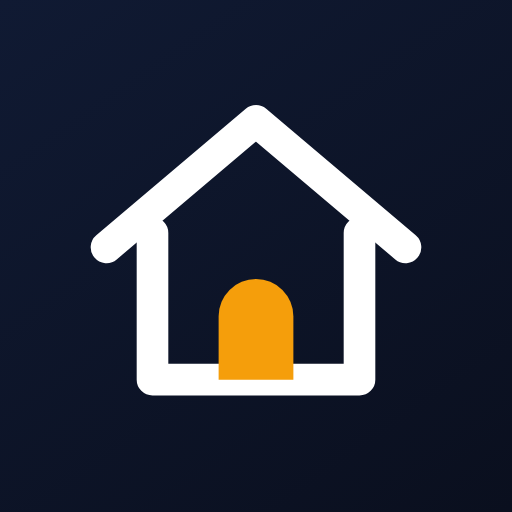
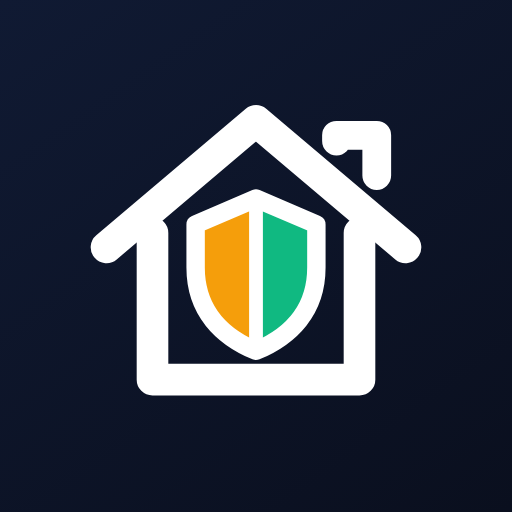
Adopt the shield-in-house mark from owner artwork, redrawn as vector
The owner supplied new logo art: a house with a central shield on a
circuit-board background. This is the first supplied asset with every
word spelled correctly.

Adopted the composition, protection inside the home, and redrew it as
vector in the site system: navy structure via currentColor so it adapts
to light and dark surfaces, shield split amber and emerald, echoing the
orange/green of the artwork mapped onto the palette the site already
uses (emerald is the established keep-the-home colour). The circuit
background was dropped: it reads fintech rather than homeowner trust,
and no mark survives a white header with a background attached.

Verified legible at 96/48/24/16px on light and dark before adoption.
Regenerated everything downstream of the mark: favicon.ico (16/32/48),
favicon-32, apple-icon, icon-512, logo-square for schema.org, and the
1200x630 Open Graph share image.

Header, footer and professionals page pick the mark up automatically via
the Logo component.

Claude-Session: https://claude.ai/code/session_019ZMf6VBXmNJHmDjug6scFG

Changed region(s): [[0.3438, 0.375, 0.6562, 0.75], [0.625, 0.2188, 0.7812, 0.375]]

diff --git a/app/components/Logo.tsx b/app/components/Logo.tsx
@@ -1,20 +1,17 @@
 /**
- * Logo mark. Vector, and deliberately WITHOUT the company name inside it.
+ * Logo mark: a shield inside the house.
  *
- * The previous mark was a PNG with "NJ FORECOLSURE GUIDE" set into the image,
- * misspelled, on every page of the site. Baking a wordmark into a raster file
- * means a typo is invisible to spellcheck, unreadable to Google, unselectable
- * by a visitor, and blurry on any retina screen.
+ * Adapted from owner-supplied artwork (house with a central shield on a
+ * circuit-board background). Kept: the composition, protection inside the
+ * home, which is the whole promise of the site. Changed: redrawn as vector so
+ * it is sharp at every size and cannot ship with baked-in text, and recolored
+ * from orange/green/teal into the site system, amber for the warmth, emerald
+ * for "keep the home", navy for the structure. The circuit background was
+ * dropped; it reads fintech, not homeowner trust, and no mark survives a
+ * white header with a background attached.
  *
- * So the mark is now just the house, and the name is real HTML text beside it.
- * Sharp at any size, searchable, screen-reader friendly, and impossible to
- * misspell without someone noticing.
- *
- * On the design: an earlier version ran an amber stroke diagonally across the
- * house. At small sizes it read as a line struck THROUGH the home, which is
- * the last association this particular audience needs. It is now an open,
- * arched door instead: the one warm element in the mark, and the right idea
- * for a site whose whole argument is that there is a way through.
+ * House strokes use currentColor so the same component works dark-on-light in
+ * the header and light-on-dark in the footer.
  */
 export default function Logo({ className = 'h-11 w-11' }: { className?: string }) {
   return (
@@ -26,24 +23,33 @@ export default function Logo({ className = 'h-11 w-11' }: { className?: string }
       aria-label="NJ Foreclosure Guide"
       xmlns="http://www.w3.org/2000/svg"
     >
-      {/* Roof */}
+      {/* Roof with chimney */}
       <path
         d="M6 30.5 L32 8.5 L58 30.5"
         stroke="currentColor"
-        strokeWidth="5"
+        strokeWidth="5.5"
         strokeLinecap="round"
         strokeLinejoin="round"
       />
+      <path d="M46 12 v-1 h7 v7" stroke="currentColor" strokeWidth="5" strokeLinecap="round" strokeLinejoin="round" />
       {/* Walls and floor */}
       <path
         d="M14 28 V53.5 H50 V28"
         stroke="currentColor"
-        strokeWidth="5"
+        strokeWidth="5.5"
         strokeLinecap="round"
         strokeLinejoin="round"
       />
-      {/* Open door. The single warm note in the mark. */}
-      <path d="M25.5 53.5 V42.5 a6.5 6.5 0 0 1 13 0 V53.5 Z" fill="#f59e0b" />
+      {/* Shield inside: amber warmth, emerald keep-the-home, navy spine */}
+      <path d="M32 22 L42.5 26.5 V34 C42.5 41.5 38 46 32 48.5 V22 Z" fill="#10b981" />
+      <path d="M32 22 L21.5 26.5 V34 C21.5 41.5 26 46 32 48.5 V22 Z" fill="#f59e0b" />
+      <path
+        d="M32 22 L42.5 26.5 V34 C42.5 41.5 38 46 32 48.5 C26 46 21.5 41.5 21.5 34 V26.5 Z"
+        stroke="currentColor"
+        strokeWidth="3.2"
+        strokeLinejoin="round"
+      />
+      <path d="M32 22.5 V48" stroke="currentColor" strokeWidth="2.4" strokeLinecap="round" />
     </svg>
   );
 }
